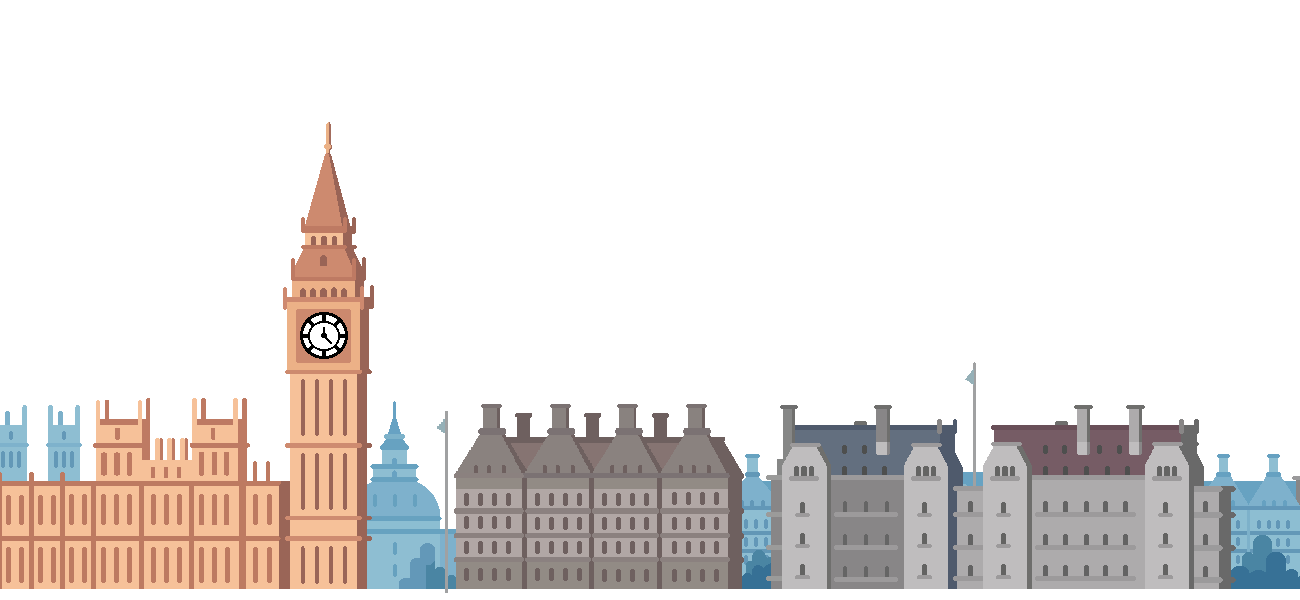
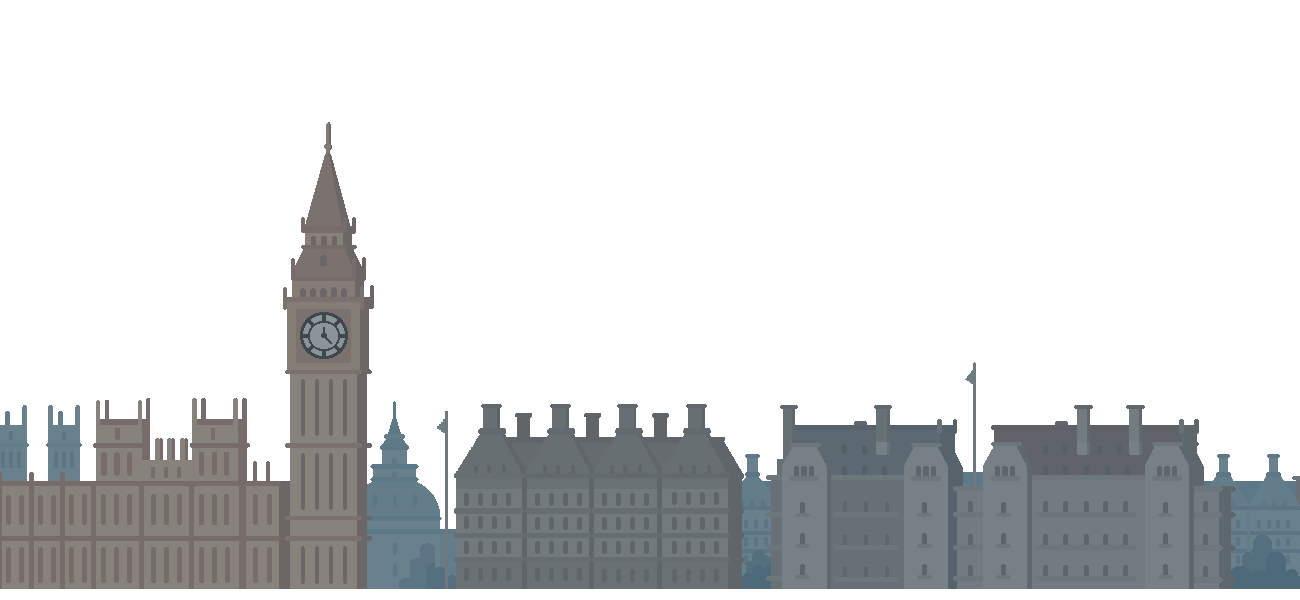
plataforma y backgrounds arreglados

Changed region(s): [[0.0, 0.21, 1.0, 0.99], [0.7385, 0.6, 0.7692, 0.66]]

diff --git a/sherlock.js b/sherlock.js
@@ -12,7 +12,7 @@ class sherlock extends Phaser.Scene {
     this.load.spritesheet('violin', 'assets/sprites/violin.png', {frameWidth: 110, frameHeight: 178});
     this.load.spritesheet('hedgehog', 'assets/sprites/hedgehog.png', {frameWidth: 106, frameHeight: 101});
     this.load.image('apple', 'assets/sprites/apple.png')
-    this.load.image('ground', 'assets/sprites/platform.png');
+    this.load.image('ground', 'assets/principal_platform.png');
 
     //background
     this.load.image('bg1', 'assets/backgrounds/london.png');
@@ -28,7 +28,7 @@ class sherlock extends Phaser.Scene {
     gameState.player.setCollideWorldBounds(true);
 
     const platform = this.physics.add.staticGroup();
-    platform.create(675, 575, 'ground')
+    platform.create(1000, 600, 'ground')
 
     this.createAnimations(); 
 
